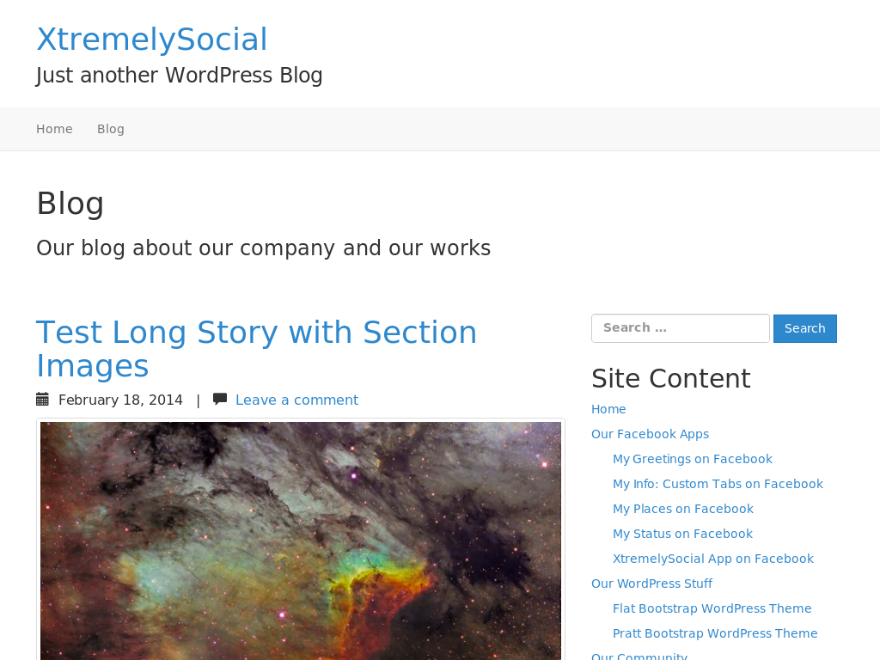
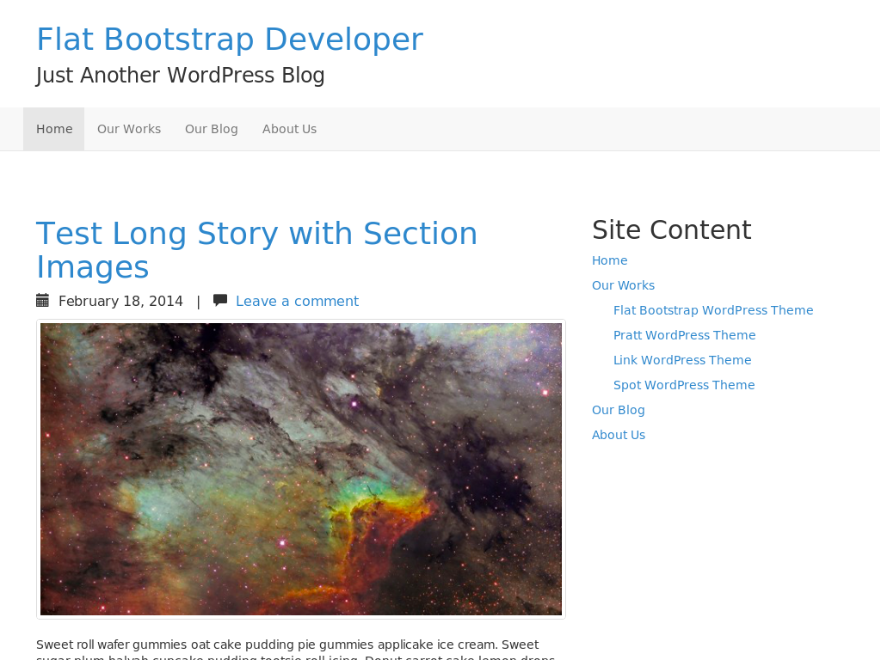
v1.4 Enhancements
* Added new $xsbf_theme_options variable to specify whether to add
theme support for Jetpack Testimonials. Turned off here by default.
* Turned off touch support by default
* Turned off Font Awesome by default.
* Turned off sample widgets and sample footer menu.
* Updated readme.txt to focus just on this child theme, not duplicate
information already in the parent theme.
* Update screenshot to reflect home page being the blog.
* Bumped version to match parent theme.

diff --git a/style.css b/style.css
@@ -4,7 +4,7 @@ Theme URI: http://xtremelysocial.com/wordpress/developer/
 Description: Developer child theme for Flat Bootstrap. Strips back code to core Bootstrap without any of the parent themes CSS except the bare minimum needed for WordPress. No extra javascript or fonts are loaded either.
 Author: XtremelySocial
 Author url: http://xtremelysocial.com
-Version: 1.3
+Version: 1.4
 License: GNU General Public License
 License URI: http://www.opensource.org/licenses/GPL-3.0
 Template: flat-bootstrap

diff --git a/functions.php b/functions.php
@@ -17,46 +17,66 @@
  * 
  * Parameters:
  * background_color - Hex code for default background color without the #. eg) ffffff
- * content_width - Only for determining "full width" image. Actual width in Bootstrap.css.
- * 		1170 for screens over 1200px resolution, otherwise 970.
- * embed_video_width - Sets the width of videos that use the <embed> tag. This defaults
- * 		to the smallest width of content with a sidebar before the sidebar collapses.
- *		The height is automatically set at a 16:9 ratio unless overridden.
+ * 
+ * content_width - Only for determining "full width" image. Actual width in Bootstrap.css
+ * 		is 1170 for screens over 1200px resolution, otherwise 970.
+ * 
+ * embed_video_width - Sets the maximum width of videos that use the <embed> tag. The
+ * 		default is 1170 to handle full-width page templates. If you will ALWAYS display
+ * 		the sidebar, can set to 600 for better performance.
+ * 
  * embed_video_height - Leave empty to automatically set at a 16:9 ratio to the width
- * post_formats - WordPress extra post formats. i.e. 'aside', 'image', 'video', 'quote',
- * 		'link'
+ * 
+ * post_formats - Array of WordPress extra post formats. i.e. aside, image, video, quote,
+ * 		and/or link
+ * 
  * touch_support - Whether to load touch support for carousels (sliders)
+ * 
  * fontawesome - Whether to load font-awesome font set or not
+ * 
  * bootstrap_gradients - Whether to load Bootstrap "theme" CSS for gradients
+ * 
  * navbar_classes - One or more of navbar-default, navbar-inverse, navbar-fixed-top, etc.
+ * 
+ * custom_header_location - If 'header', displays the custom header above the navbar. If
+ * 		'content-header', displays it below the navbar in place of the colored content-
+ *		header section.
+ * 
  * image_keyboard_nav - Whether to load javascript for using the keyboard to navigate
  		image attachment pages
+ * 
  * sample_widgets - Whether to display sample widgets in the footer and page-bottom widet
- 		areas. FOR POSSIBLE FUTURE USE ONLY.
+ 		areas.
+ * 
  * sample_footer_menu - Whether to display sample footer menu with Top and Home links
+ * 
+ * testimonials - Whether to activate testimonials custom post type if Jetpack plugin is 
+ * 		active
  *
  * NOTE: $theme_options is being deprecated and replaced with $xsbf_theme_options. You'll
  * need to update your child themes.
  */
 $xsbf_theme_options = array(
 	'background_color' 		=> 'ffffff',
-	'content_width' 		=> 1170,
-	'embed_video_width' 	=> 600,
-	'embed_video_height' 	=> null, // i.e. calculate it automatically
-	'post_formats' 			=> null,
-	'touch_support' 		=> false,
-	'fontawesome' 			=> false,
-	'bootstrap_gradients' 	=> false,
-	'navbar_classes'		=> 'navbar-default navbar-static-top',
-	'custom_header_location' 	=> 'header',
-	'image_keyboard_nav' 	=> false,
-	'sample_widgets' 		=> true, // for possible future use
-	'sample_footer_menu'	=> true
+	//'content_width' 			=> 1170, // used for full-width images
+	//'embed_video_width' 		=> 1170, // full-width videos on full-width pages
+	//'embed_video_height' 		=> null, // i.e. calculate it automatically
+	//'post_formats' 			=> null,
+	'touch_support' 			=> false,
+	'fontawesome' 				=> false,
+	//'bootstrap_gradients' 	=> false,
+	//'navbar_classes'			=> 'navbar-default navbar-static-top',
+	//'custom_header_location' 	=> 'header',
+	'image_keyboard_nav' 		=> false,
+	'sample_widgets' 			=> false,
+	'sample_footer_menu'		=> false,
+	'testimonials'				=> false // requires Jetpack plugin
 );
 
 /*
  * ALSO HOOK INTO PRINT_STYLES TO OVERRIDE WHAT CSS GETS LOADED
  */
+add_action('wp_print_styles', 'xsbf_dev_print_styles');
 function xsbf_dev_print_styles() {
 
 	// Remove the parent theme's custom bootstrap CSS
@@ -81,24 +101,24 @@ function xsbf_dev_print_styles() {
 	// it is automatically included by WordPress.
 
 }
-add_action('wp_print_styles', 'xsbf_dev_print_styles');
 
 /*
  * IF YOU WANT TO HOOK INTO PRINT_SCRIPTS TO OVERRIDE WHAT JAVASCRIPT GETS LOADED YOU 
  * CAN DO SO HERE.
  */
 /*
+add_action( 'wp_print_scripts', 'xsbf_dev_print_scripts' );
 function xsbf_dev_print_scripts() {
     //wp_dequeue_script( 'jquerymobile' );
     //wp_deregister_script( 'jquerymobile' );
 }
-add_action( 'wp_print_scripts', 'xsbf_dev_print_scripts' );
 */
 
 /**
  * OVERRIDE WHAT INCLUDE FILES GET USED. THIS PARTICULAR EXAMPLE ONLY LOADS
  * THE ONES WE CONSIDER ESSENTIAL FOR THE THEME TO FUNCTION AT ALL.
  */
+xsbf_load_includes();
 function xsbf_load_includes() {
 
 	// Custom template tags for this theme. This is needed for sure.
@@ -107,13 +127,12 @@ function xsbf_load_includes() {
 	// Functions not related to template tags. This is needed for sure.
 	require_once get_template_directory() . '/inc/theme-functions.php';
 
-	//Overide the standard WordPress nav menu with Bootstrap divs, data attributes, and CSS
+	//Overide the standard WordPress nav menu with Bootstrap divs, data attributes, and CSS. Nice to have.
 	require_once get_template_directory() . '/inc/bootstrap-navmenu.php';
 	
 	// Note that the parent theme has more includes, but they are optional.
 
 } // end function
-xsbf_load_includes();
 
 /* 
  * OVERRIDE THE CUSTOM HEADER WIDTH AND HEIGHT
